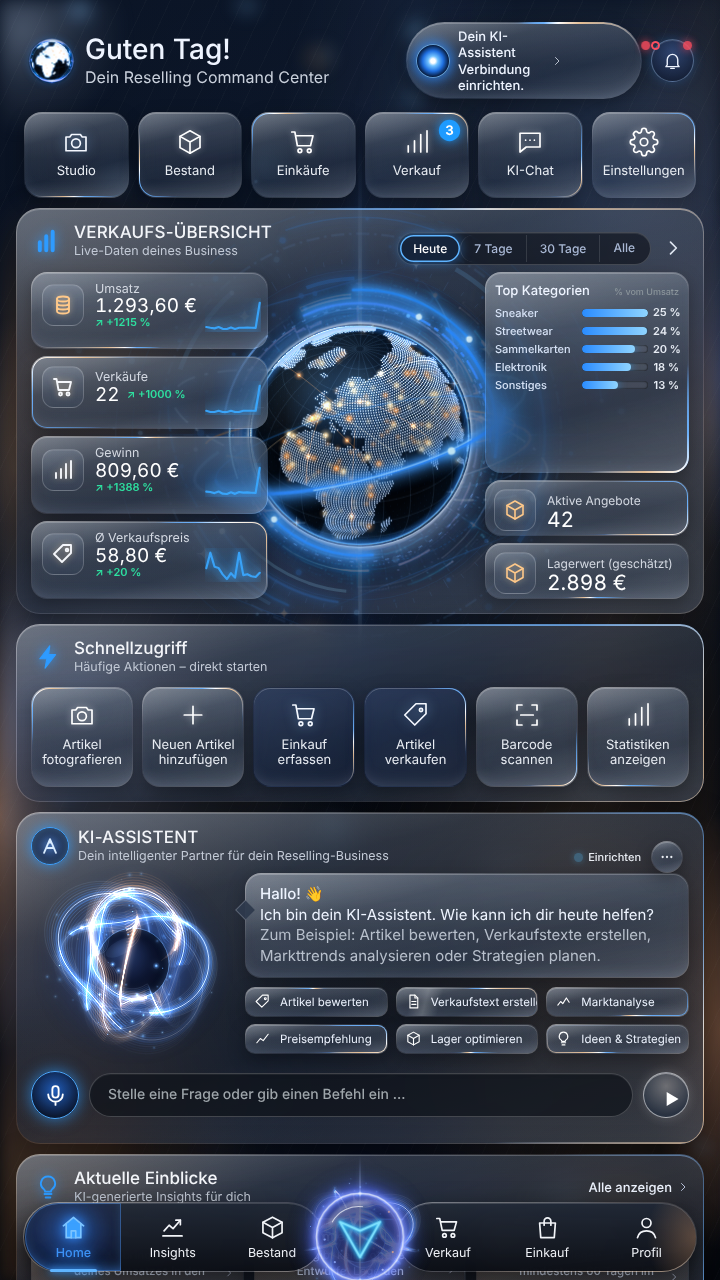
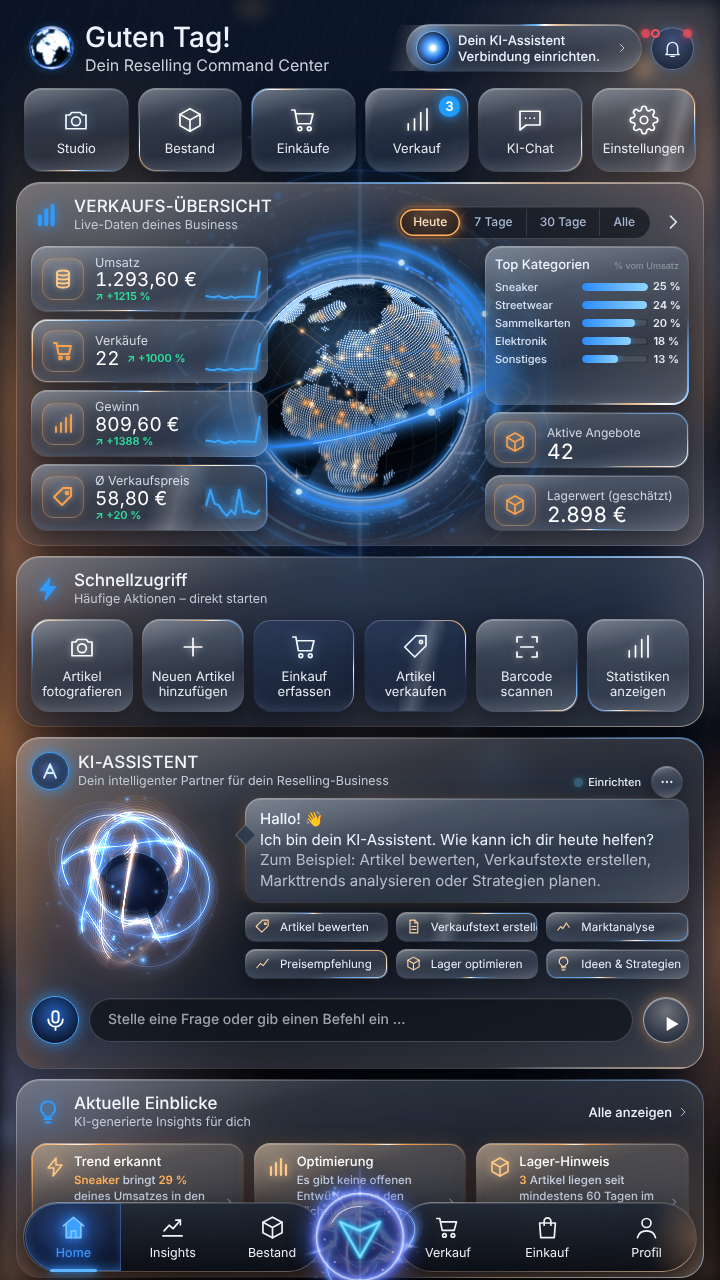
Goldorange Akzente und oranges Aufleuchten beim Klick
- Hintergrund mit warmen Lichtern an den Rändern für Tiefe
- Verkaufs-Übersicht: Heute orange, Kennzahl- und Lagersymbole orange glühend
- KI-Assistent und Einblicke mit warmem Glow, warme Randlicht-Variante
- Angeklickte Knöpfe leuchten orange (außer Menüleiste unten)
- Fix: Glanzstreifen nahm in Flex-Feldern Platz weg

Claude-Session: https://claude.ai/code/session_0194bcZ5PbUBuV3hzmwdGD96

diff --git a/public/theme.css b/public/theme.css
@@ -722,3 +722,66 @@ body:has(#home:not(.hidden)) main.wrap { padding-bottom:104px !important; }
 .cc-glint { padding:2px !important; filter:drop-shadow(0 0 5px rgba(110,180,255,1)) drop-shadow(0 0 10px rgba(80,150,255,.6)) !important; opacity:1 !important; }
 .v11-panel > .cc-glint { padding:1.5px !important; opacity:.75 !important; }
 .cc-sheen { background:linear-gradient(105deg, transparent 0%, rgba(255,255,255,0) 28%, rgba(255,255,255,.2) 50%, rgba(255,255,255,0) 72%, transparent 100%) !important; }
+
+/* ================= Goldorange Akzente wie in der Vorlage ================= */
+:root { --or:#ffa24a; --or-hi:#ffc98a; --or-glow:rgba(255,150,60,.6); }
+/* Hintergrund: warmes Licht für Tiefe */
+body:has(#home:not(.hidden)), body:has(#aiChat:not(.hidden)) {
+  background:
+    radial-gradient(ellipse 16% 24% at 0% 50%, rgba(255,160,90,.48), transparent 70%),
+    radial-gradient(ellipse 12% 16% at 3% 28%, rgba(255,190,130,.28), transparent 70%),
+    radial-gradient(ellipse 16% 22% at 100% 64%, rgba(255,160,100,.42), transparent 70%),
+    radial-gradient(ellipse 14% 14% at 98% 40%, rgba(255,190,140,.24), transparent 70%),
+    radial-gradient(ellipse 26% 18% at 2% 90%, rgba(255,175,120,.30), transparent 70%),
+    radial-gradient(ellipse 26% 16% at 98% 96%, rgba(255,170,110,.26), transparent 70%),
+    radial-gradient(ellipse 40% 18% at 50% 52%, rgba(255,150,80,.10), transparent 70%),
+    radial-gradient(ellipse 18% 14% at 100% 18%, rgba(110,150,255,.22), transparent 70%),
+    radial-gradient(ellipse 60% 26% at 50% 34%, rgba(60,120,230,.18), transparent 70%),
+    linear-gradient(180deg, #0b1424, #070a12 55%, #06080e) fixed !important;
+}
+
+/* Verkaufs-Übersicht: Heute orange, Symbole orange */
+.v11-seg button[aria-pressed='true'] { color:#ffe2bf !important; background:radial-gradient(ellipse at 50% 0, rgba(255,160,80,.30), rgba(60,30,12,.35)) !important;
+  box-shadow:inset 0 0 0 1.5px #ffb060, 0 0 10px rgba(255,150,60,.55), 0 0 22px rgba(255,140,50,.25) !important; animation:cc-segwarm 3s ease-in-out infinite !important; }
+@keyframes cc-segwarm { 0%,100% { box-shadow:inset 0 0 0 1.5px #ffb060, 0 0 8px rgba(255,150,60,.45); } 50% { box-shadow:inset 0 0 0 1.5px #ffd29a, 0 0 18px rgba(255,150,60,.85); } }
+.v11-m .mi, .v11-s2 .mi { border-color:rgba(255,180,110,.35) !important; color:var(--or) !important;
+  box-shadow:inset 0 0 10px rgba(255,150,60,.18), 0 0 10px rgba(255,140,50,.18) !important; }
+.v11-m .mi .v11-ico, .v11-s2 .mi .v11-ico { animation-name:cc-iconglow-warm !important; }
+.v11-sales { box-shadow:inset 0 0 60px -20px rgba(255,150,70,.25), inset 0 1px 0 rgba(255,255,255,.2), 0 16px 40px rgba(0,0,0,.45) !important; }
+
+/* KI-Assistent: warme Leuchteffekte */
+.v11-ai { box-shadow:inset 40px 0 70px -40px rgba(255,150,70,.35), inset 0 1px 0 rgba(255,255,255,.2), 0 16px 40px rgba(0,0,0,.45) !important; }
+.v11-ai .v15-bot-frame { filter:drop-shadow(0 0 18px rgba(255,150,70,.35)); }
+.v11-bubble { box-shadow:inset 0 1px 0 rgba(255,255,255,.18), -6px 0 18px -10px rgba(255,160,80,.55), 0 10px 24px rgba(0,0,0,.35) !important; }
+.v11-prompts .v11-ico { color:#ffd3a0 !important; }
+body:has(#home:not(.hidden)) .v11-ai .rv-crafted-chat #homeAiSend, .cc-send { box-shadow:0 0 14px rgba(255,170,90,.45), inset 0 1px 0 rgba(255,255,255,.4) !important; }
+
+/* Aktuelle Einblicke: warmer Glow */
+.v11-ins { box-shadow:inset 0 -40px 60px -40px rgba(255,150,70,.35), inset 0 1px 0 rgba(255,255,255,.2), 0 16px 40px rgba(0,0,0,.45) !important; }
+.v11-card { box-shadow:0 0 18px rgba(255,150,70,.18), inset 0 1px 0 rgba(255,235,210,.25), inset 0 -10px 18px -12px rgba(255,170,90,.45), 0 8px 20px rgba(0,0,0,.35) !important; }
+.v11-card .ci { color:var(--or-hi) !important; animation-name:cc-iconglow-warm !important; }
+.v11-card > .cc-glint { background:conic-gradient(from var(--cc-a), transparent 0 62%, rgba(255,170,90,.9) 74%, #fff4e0 78%, rgba(255,150,60,.85) 82%, transparent 90%) !important;
+  filter:drop-shadow(0 0 5px rgba(255,160,70,1)) !important; }
+
+/* Warme Randlicht-Variante auf jedem zweiten Element */
+.v11-tile:nth-child(2n) > .cc-glint, .v11-q:nth-child(2n) > .cc-glint, .v11-m:nth-child(2n) > .cc-glint, .v11-prompts button:nth-child(2n) > .cc-glint {
+  background:conic-gradient(from var(--cc-a), transparent 0 62%, rgba(255,170,90,.85) 74%, #fff4e0 78%, rgba(110,180,255,.8) 82%, transparent 90%) !important; }
+
+/* Angeklickt = orange (nicht im Menü) */
+#v11Root button.cc-pressed:not(.v11-seg button), #v11Root .v11-card.cc-pressed, #ccChat button.cc-pressed,
+#v11Root button:not(.v11-seg button):active, #ccChat button:active {
+  border-color:transparent !important;
+  background:
+    radial-gradient(ellipse 80% 90% at 50% 60%, rgba(255,150,60,.42), rgba(255,120,40,.12) 70%) padding-box,
+    linear-gradient(180deg, rgba(60,36,20,.55), rgba(30,20,14,.6)) padding-box,
+    linear-gradient(165deg, #ffd8a8, rgba(255,160,80,.6) 40%, rgba(255,140,60,.3) 70%, #ffc080) border-box !important;
+  box-shadow:0 0 0 1px rgba(255,180,100,.6), 0 0 18px rgba(255,150,60,.7), 0 0 34px rgba(255,130,40,.35), inset 0 0 16px rgba(255,170,90,.35) !important;
+  color:#fff2e2 !important; transition:box-shadow .15s ease, background .15s ease !important; }
+#v11Root button.cc-pressed .v11-ico, #v11Root button.cc-pressed svg, #v11Root .v11-card.cc-pressed .v11-ico, #ccChat button.cc-pressed svg,
+#v11Root button:active svg, #ccChat button:active svg { color:#ffc98a !important; filter:drop-shadow(0 0 6px rgba(255,160,70,1)) !important; }
+#v11Root .v11-seg button.cc-pressed { box-shadow:inset 0 0 0 1.5px #ffd29a, 0 0 22px rgba(255,150,60,.9) !important; }
+@media(hover:hover) {
+  .v11-tile:hover, .v11-q:hover, .v11-card:hover, .v11-prompts button:hover, .cc-q:hover, .cc-pills .chat-chip:hover {
+    box-shadow:0 0 0 1px rgba(255,190,120,.45), 0 0 18px rgba(255,150,60,.35), 0 10px 22px rgba(0,0,0,.4), inset 0 1px 0 rgba(255,255,255,.25) !important; }
+}
+.cc-sheen { position:absolute !important; top:0 !important; bottom:0 !important; left:0 !important; z-index:2 !important; }

diff --git a/public/fx.js b/public/fx.js
@@ -534,6 +534,18 @@
     Array.prototype.forEach.call(doc.querySelectorAll('.cc-rbot-host'), function (h) { h.classList.toggle('cc-busy', st === 'busy'); });
   });
 
+  /* Angeklickte Knöpfe leuchten kurz orange (nicht im Menü unten) */
+  function setupPress() {
+    if (doc.documentElement.dataset.ccPress) return; doc.documentElement.dataset.ccPress = '1';
+    doc.addEventListener('pointerdown', function (e) {
+      var b = e.target.closest && e.target.closest('button, .v11-card, [role="button"]');
+      if (!b || b.closest('#bottomnav')) return;
+      if (!b.closest('#v11Root, #ccChat')) return;
+      b.classList.remove('cc-pressed'); void b.offsetWidth; b.classList.add('cc-pressed');
+      clearTimeout(b._ccp); b._ccp = setTimeout(function () { b.classList.remove('cc-pressed'); }, 900);
+    }, true);
+  }
+
   /* Menü: rotes Aufleuchten beim Antippen */
   function setupNavTap() {
     var nav = doc.getElementById('bottomnav'); if (!nav || nav.dataset.ccTap) return; nav.dataset.ccTap = '1';
@@ -853,7 +865,7 @@
   function drawStatic() { for (var i = 0; i < earths.length; i++) { if (earths[i].resize()) earths[i].draw(0); } for (var j = 0; j < plasmas.length; j++) { if (plasmas[j].resize()) plasmas[j].draw(2); } }
 
   function init() {
-    setupGlobe(); setupAvatar(); setupRobot(); setupNavCore(); setupNavTap(); setupFills(); setupGlints(); if (window.MutationObserver) { var ins = doc.getElementById('v11-insights'); if (ins) new MutationObserver(setupGlints).observe(ins, { childList: true }); var ci = doc.getElementById('ccChatIns'); if (ci) new MutationObserver(setupGlints).observe(ci, { childList: true }); } setupEmbers(); setupCounters();
+    setupGlobe(); setupAvatar(); setupRobot(); setupNavCore(); setupNavTap(); setupPress(); setupFills(); setupGlints(); if (window.MutationObserver) { var ins = doc.getElementById('v11-insights'); if (ins) new MutationObserver(setupGlints).observe(ins, { childList: true }); var ci = doc.getElementById('ccChatIns'); if (ci) new MutationObserver(setupGlints).observe(ci, { childList: true }); } setupEmbers(); setupCounters();
     doc.documentElement.classList.add('cc-fx');
     if (reduce) { drawStatic(); window.addEventListener('resize', drawStatic); var nh = doc.getElementById('navHome'); if (nh) nh.addEventListener('click', function () { setTimeout(drawStatic, 60); }); }
     else requestAnimationFrame(frame);

diff --git a/public/sw.js b/public/sw.js
@@ -1,4 +1,4 @@
-const CACHE='rv-studio-v19-blueglass-8';
+const CACHE='rv-studio-v19-blueglass-9';
 const FILES=['/','/index.html','/app.css','/dashboard.css','/fx.css','/ref.css','/theme.css','/app.js','/dashboard.js','/fx.js',
   '/vendor/jszip.min.js','/fonts/command-sans-regular.otf','/fonts/command-sans-bold.otf',
   '/rv-logo.jpg','/rv-ai-mascot.png','/rv-robot-premium.png','/rv-white.png',
